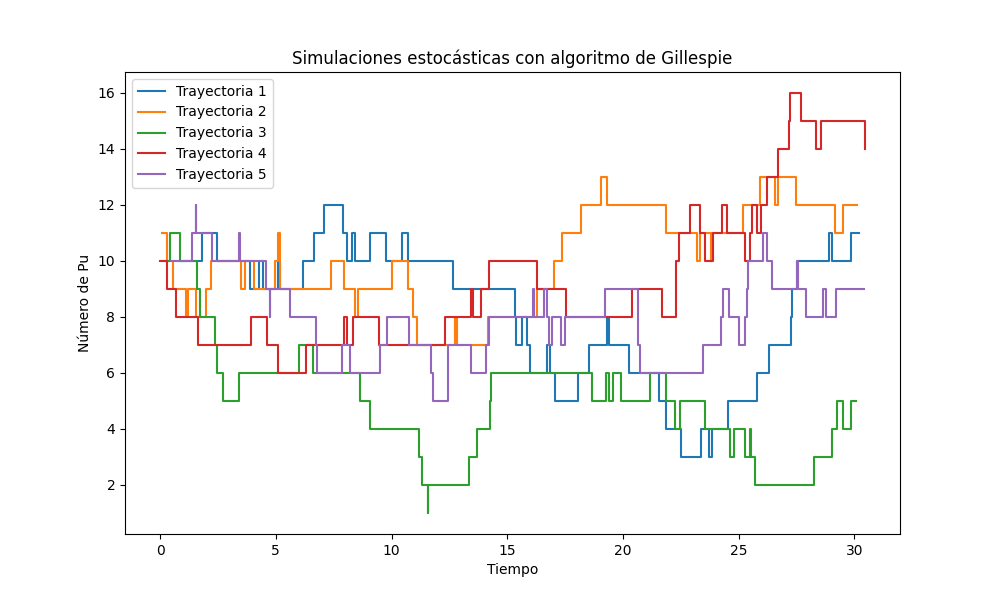
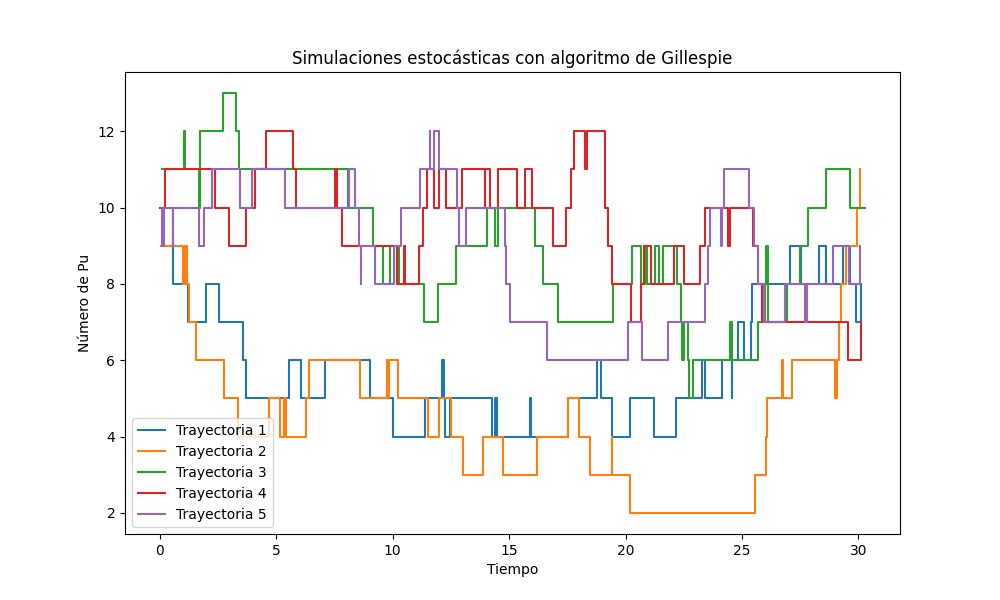
update

diff --git a/Taller 5/Punto 2.py b/Taller 5/Punto 2.py
@@ -73,6 +73,57 @@ for i, iso in enumerate(isotopos):
         print(f"{iso}: Llega a estado estable en t ≈ {t_est:.3f} días, valor ≈ {sol.y[i,-1]:.2f}")
     else:
         print(f"{iso}: NO alcanza estado estable en 30 días, valor final ≈ {sol.y[i,-1]:.2f}")
+###2.b
+
+def sde_rk2(A, B, lambda_U, lambda_Np, tiempo, dt=0.01, U0=10, Np0=10, Pu0=10):
+    pasos = int(tiempo/dt)
+    t_vals = np.linspace(0, tiempo, pasos)
+    
+    # Arreglos para guardar resultados
+    U = np.zeros(pasos); Np = np.zeros(pasos); Pu = np.zeros(pasos)
+    U[0], Np[0], Pu[0] = U0, Np0, Pu0
+
+    for i in range(1, pasos):
+        # ---- Evolución de U con ruido estocástico ----
+        muU = A - lambda_U * U[i-1]
+        sigmaU = np.sqrt(A + lambda_U * U[i-1])
+        W = np.random.normal(0,1)
+        S = np.random.choice([-1,1])
+
+        K1 = dt*muU + (W+S)*np.sqrt(dt)*sigmaU
+        K2 = dt*(A - lambda_U*(U[i-1]+K1)) + (W+S)*np.sqrt(dt)*np.sqrt(A + lambda_U*(U[i-1]+K1))
+
+        U[i] = U[i-1] + 0.5*(K1+K2)
+
+        # ---- Determinista para Np y Pu ----
+        dNp = (lambda_U * U[i-1] - lambda_Np * Np[i-1]) * dt
+        dPu = (lambda_Np * Np[i-1] - B * Pu[i-1]) * dt
+
+        Np[i] = Np[i-1] + dNp
+        Pu[i] = Pu[i-1] + dPu
+
+    return t_vals, U, Np, Pu
+
+
+# Graficar 5 trayectorias bajo la solución determinista
+tiempo = 30
+num_trayectorias = 5
+
+plt.figure(figsize=(10,6))
+# Solución determinista (ya calculada en sol de 2a)
+plt.plot(sol.t, sol.y[2], "k--", label="Determinista Pu")
+
+for i in range(num_trayectorias):
+    t_vals, U_vals, Np_vals, Pu_vals = sde_rk2(A, B, lambda_U, lambda_Np, tiempo)
+    plt.plot(t_vals, Pu_vals, alpha=0.7, label=f"Trayectoria {i+1}")
+
+plt.xlabel("Tiempo (días)")
+plt.ylabel("Cantidad de Pu")
+plt.title("Evolución estocástica de Pu vs determinista")
+plt.legend()
+plt.grid()
+plt.savefig("Taller 5/2.b.png")
+
 
 #Punto 2c.
 import random
@@ -156,3 +207,97 @@ plt.ylabel("Número de Pu")
 plt.title("Simulaciones estocásticas con algoritmo de Gillespie")
 plt.legend()
 plt.savefig("Taller 5/2.c.png")
+
+# -------- Parte 2d --------
+
+import numpy as np
+import random
+import matplotlib.pyplot as plt
+from numba import njit
+
+# Parámetros
+A = 1000           # Tasa de creación de U
+lambda_U = 0.1     # Tasa de decaimiento de U
+lambda_Np = 0.05   # Tasa de decaimiento de Np
+B = 0.1            # Tasa de extracción de Pu
+N = 1000           # Número de trayectorias
+tiempo_simulacion = 30  # Tiempo de simulación
+
+# Sistema de reacciones (R)
+R = np.array([
+    [1, 0, 0],   # Creación de U
+    [-1, 1, 0],  # U -> Np
+    [0, -1, 1],  # Np -> Pu
+    [0, 0, -1]   # Decaimiento de Pu
+])
+
+@njit
+def simulacion_gillespie(tiempo_simulacion, A, lambda_U, lambda_Np, B, 
+                         U0=10, Np0=10, Pu0=10, max_pasos=200000):
+    t_old = 0.0
+    Y_old = np.array([U0, Np0, Pu0])  # Estado inicial
+
+    tiempos = np.zeros(max_pasos)
+    valores_U = np.zeros(max_pasos)
+    valores_Np = np.zeros(max_pasos)
+    valores_Pu = np.zeros(max_pasos)
+
+    indice = 0
+
+    while t_old < tiempo_simulacion and indice < max_pasos - 1:
+        tasa_creacion = A
+        tasa_U = Y_old[0] * lambda_U
+        tasa_Np = Y_old[1] * lambda_Np
+        tasa_Pu = Y_old[2] * B
+        tasas = np.array([tasa_creacion, tasa_U, tasa_Np, tasa_Pu])
+
+        if tasas.sum() == 0:
+            break
+
+        tau = np.random.exponential(1 / tasas.sum())
+        probabilidades = tasas / tasas.sum()
+        r_index = np.searchsorted(np.cumsum(probabilidades), np.random.rand())
+        r = R[r_index]
+
+        Y_new = Y_old + r
+        t_new = t_old + tau
+
+        tiempos[indice] = t_new
+        valores_U[indice] = Y_new[0]
+        valores_Np[indice] = Y_new[1]
+        valores_Pu[indice] = Y_new[2]
+
+        Y_old = Y_new
+        t_old = t_new
+        indice += 1
+
+    return tiempos[:indice], valores_U[:indice], valores_Np[:indice], valores_Pu[:indice]
+
+# Simulación de las trayectorias
+trayectorias_pu = []
+
+for i in range(N):
+    tiempos, U, Np, Pu = simulacion_gillespie(tiempo_simulacion, A, lambda_U, lambda_Np, B)
+    trayectorias_pu.append(Pu)
+
+trayectorias_pu = np.array(trayectorias_pu)
+
+# Estimación de la probabilidad de alcanzar la concentración crítica
+umbral = 80
+k = np.sum(trayectorias_pu[:, -1] >= umbral)  # Número de trayectorias que alcanzan la concentración crítica
+p = k / N  # Probabilidad
+
+# Estimación de la incertidumbre (frecuentista)
+sigma_p = np.sqrt(p * (1 - p) / N)
+
+# Aproximación Bayesiana
+alpha = 1 + k
+beta = 1 + N - k
+probabilidad_bayesiana = (alpha - 1) / (alpha + beta - 2)
+
+probabilidad_txt = f"Frecuentista: p = {p:.4f} ± {sigma_p:.4f}\nBayesiana: p = {probabilidad_bayesiana:.4f}\n"
+
+# Guardamos los resultados en un archivo de texto
+f = open("Taller 5/2.d.txt", "w")
+f.write(probabilidad_txt)
+f.close()

diff --git a/Taller 4/Punto_2.py b/Taller 4/Punto_2.py
@@ -300,97 +300,3 @@ fig4.text(0.5, 0.01, "Condiciones:Ut= 0.0005*∇**2 u+v*u**2-u-0.025, Vt=dx*d2_d
          ha="center", va="bottom", fontsize=12)
 plt.savefig("Taller 4/2_Dependencia_dx_dy.png")
 
-
-# -------- Parte 2d --------
-
-import numpy as np
-import random
-import matplotlib.pyplot as plt
-from numba import njit
-
-# Parámetros
-A = 1000           # Tasa de creación de U
-lambda_U = 0.1     # Tasa de decaimiento de U
-lambda_Np = 0.05   # Tasa de decaimiento de Np
-B = 0.1            # Tasa de extracción de Pu
-N = 1000           # Número de trayectorias
-tiempo_simulacion = 30  # Tiempo de simulación
-
-# Sistema de reacciones (R)
-R = np.array([
-    [1, 0, 0],   # Creación de U
-    [-1, 1, 0],  # U -> Np
-    [0, -1, 1],  # Np -> Pu
-    [0, 0, -1]   # Decaimiento de Pu
-])
-
-@njit
-def simulacion_gillespie(tiempo_simulacion, A, lambda_U, lambda_Np, B, 
-                         U0=10, Np0=10, Pu0=10, max_pasos=200000):
-    t_old = 0.0
-    Y_old = np.array([U0, Np0, Pu0])  # Estado inicial
-
-    tiempos = np.zeros(max_pasos)
-    valores_U = np.zeros(max_pasos)
-    valores_Np = np.zeros(max_pasos)
-    valores_Pu = np.zeros(max_pasos)
-
-    indice = 0
-
-    while t_old < tiempo_simulacion and indice < max_pasos - 1:
-        tasa_creacion = A
-        tasa_U = Y_old[0] * lambda_U
-        tasa_Np = Y_old[1] * lambda_Np
-        tasa_Pu = Y_old[2] * B
-        tasas = np.array([tasa_creacion, tasa_U, tasa_Np, tasa_Pu])
-
-        if tasas.sum() == 0:
-            break
-
-        tau = np.random.exponential(1 / tasas.sum())
-        probabilidades = tasas / tasas.sum()
-        r_index = np.searchsorted(np.cumsum(probabilidades), np.random.rand())
-        r = R[r_index]
-
-        Y_new = Y_old + r
-        t_new = t_old + tau
-
-        tiempos[indice] = t_new
-        valores_U[indice] = Y_new[0]
-        valores_Np[indice] = Y_new[1]
-        valores_Pu[indice] = Y_new[2]
-
-        Y_old = Y_new
-        t_old = t_new
-        indice += 1
-
-    return tiempos[:indice], valores_U[:indice], valores_Np[:indice], valores_Pu[:indice]
-
-# Simulación de las trayectorias
-trayectorias_pu = []
-
-for i in range(N):
-    tiempos, U, Np, Pu = simulacion_gillespie(tiempo_simulacion, A, lambda_U, lambda_Np, B)
-    trayectorias_pu.append(Pu)
-
-trayectorias_pu = np.array(trayectorias_pu)
-
-# Estimación de la probabilidad de alcanzar la concentración crítica
-umbral = 80
-k = np.sum(trayectorias_pu[:, -1] >= umbral)  # Número de trayectorias que alcanzan la concentración crítica
-p = k / N  # Probabilidad
-
-# Estimación de la incertidumbre (frecuentista)
-sigma_p = np.sqrt(p * (1 - p) / N)
-
-# Aproximación Bayesiana
-alpha = 1 + k
-beta = 1 + N - k
-probabilidad_bayesiana = (alpha - 1) / (alpha + beta - 2)
-
-probabilidad_txt = f"Frecuentista: p = {p:.4f} ± {sigma_p:.4f}\nBayesiana: p = {probabilidad_bayesiana:.4f}\n"
-
-# Guardamos los resultados en un archivo de texto
-f = open("Taller 5/2.d.txt", "w")
-f.write(probabilidad_txt)
-f.close()
